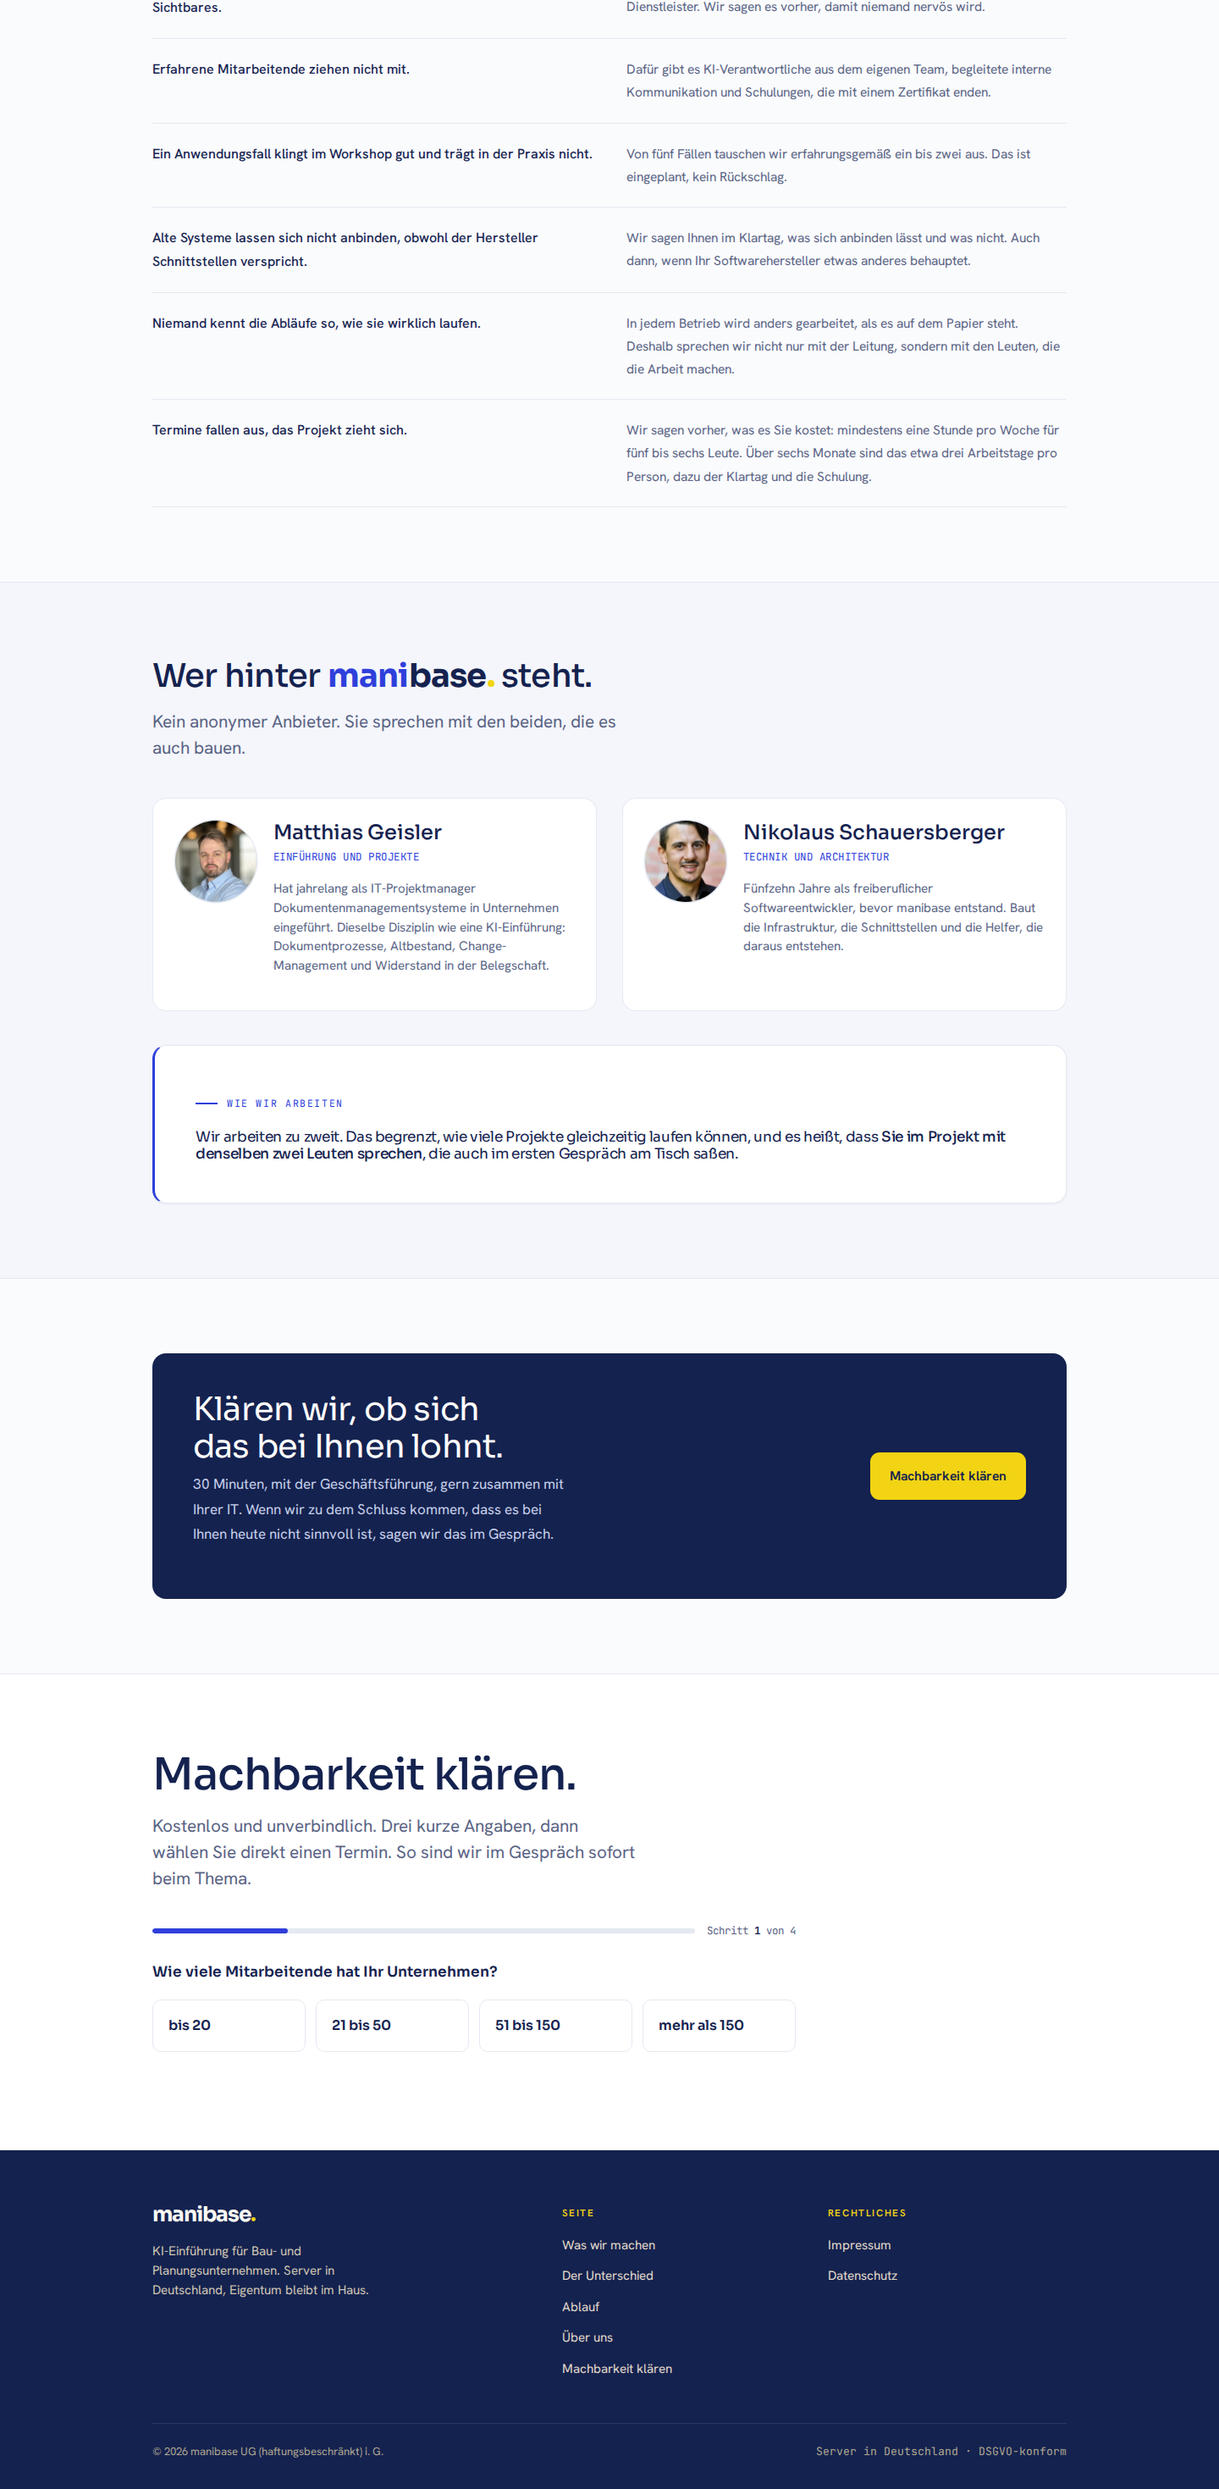
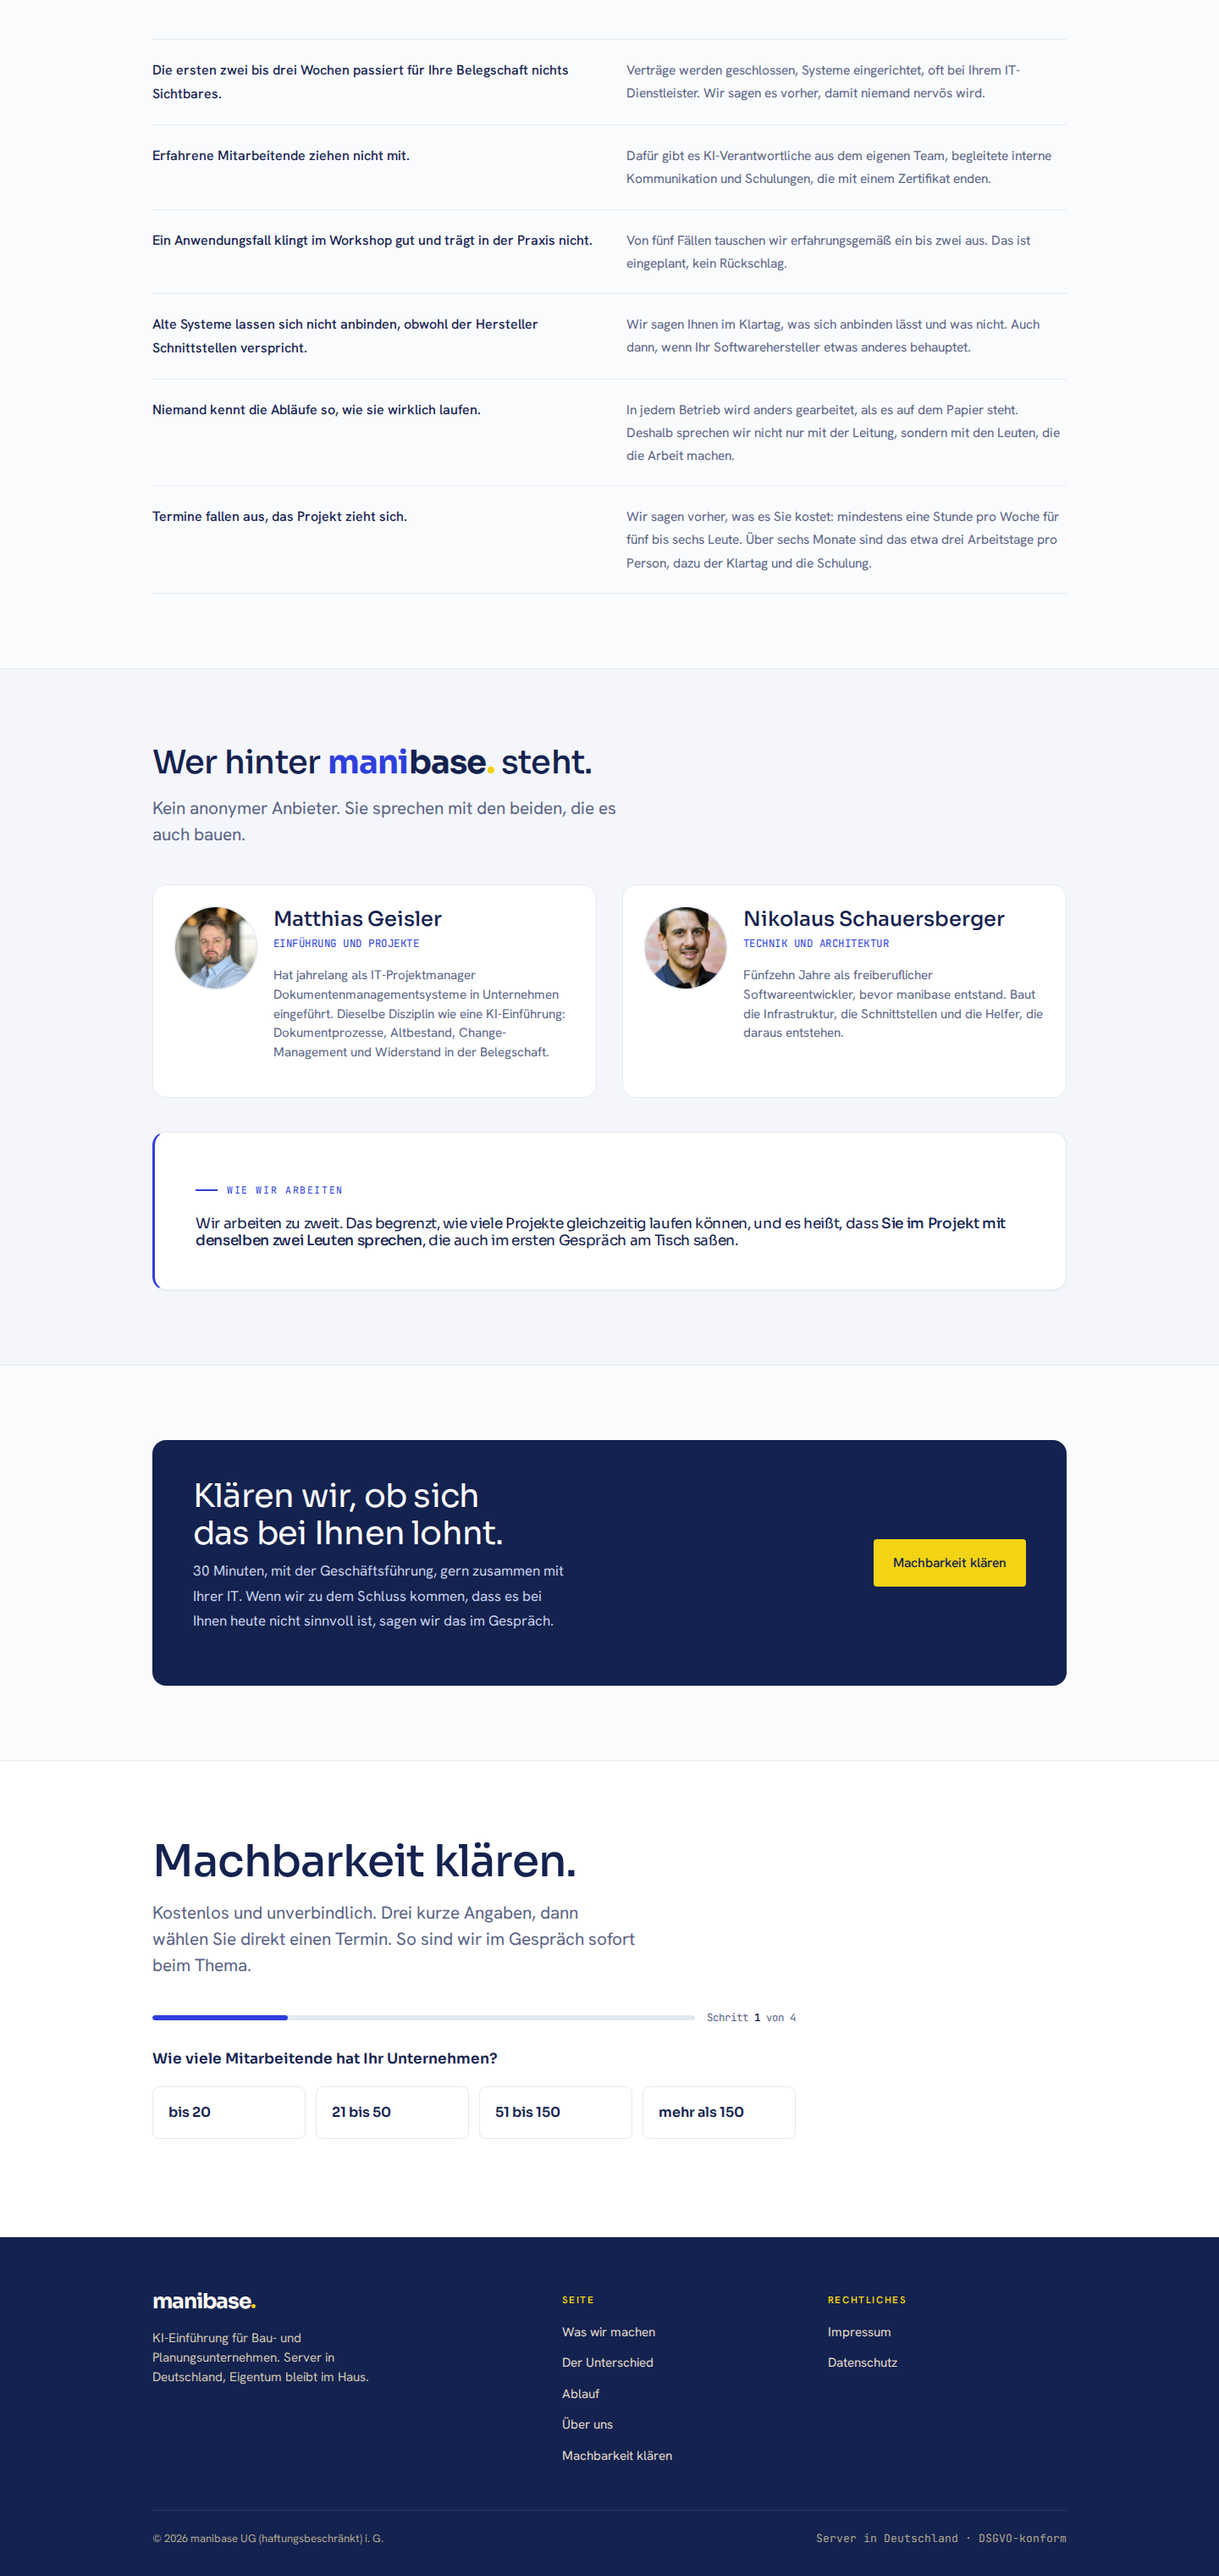
Redesign: eckige Buttons, CTA-Anker bei 50 und 75 Prozent, kuehle Leinwand bestaetigt

diff --git a/site/styles/site.css b/site/styles/site.css
@@ -663,7 +663,7 @@ body{line-height:1.75;}
 
 /* ---------- Kapazität ---------- */
 .capacity{display:flex;flex-wrap:wrap;align-items:center;gap:14px 20px;
-  background:var(--color-surface);border:1px solid var(--color-border);border-left:3px solid var(--color-accent);
+  background:var(--color-surface);border:1px solid var(--color-border);border-left:3px solid var(--color-primary);
   border-radius:var(--radius-lg);padding:clamp(18px,2.4vw,24px) clamp(20px,2.6vw,28px);
   margin-top:clamp(26px,4vw,40px);}
 .capacity p{margin:0;color:var(--color-text-secondary);max-width:58ch;font-size:.98rem;}
@@ -680,3 +680,22 @@ body{line-height:1.75;}
 
 /* Kein Gelb als große Fläche mehr */
 .spotlight-cta{background:var(--color-surface);border:1px solid var(--color-border);border-top:3px solid var(--color-accent);}
+
+/* ---------- Buttons eckiger (Capmo-Richtung) ---------- */
+.btn{border-radius:4px;font-weight:500;}
+.field input,.newsletter__form input[type=email]{border-radius:6px;}
+.qcard{border-radius:8px;}
+.stage-price{border-radius:4px;}
+
+/* ---------- CTA-Anker in der Seitenmitte und im unteren Drittel ---------- */
+.ctamid{
+  display:flex;flex-wrap:wrap;align-items:center;justify-content:space-between;
+  gap:18px clamp(24px,4vw,44px);
+  margin-top:clamp(30px,4vw,46px);
+  padding-top:clamp(26px,3.5vw,36px);
+  border-top:1px solid var(--color-border);
+}
+.ctamid p{margin:0;color:var(--color-text-secondary);max-width:52ch;font-size:1rem;}
+.ctamid b{color:var(--color-ink);font-weight:500;}
+.ctamid .btn{flex:none;}
+@media (max-width:560px){.ctamid .btn{width:100%;}}

diff --git a/site/index.html b/site/index.html
@@ -165,6 +165,12 @@
       <div class="capacity reveal">
         <p><b>Wir treten nicht gegen Microsoft an.</b> Copilot bleibt, wo es stark ist: im Dokument, in der Mail, in der Sitzung. Von 150 Mitarbeitenden brauchen das vielleicht 20 wirklich. Die anderen 130 versorgen wir günstiger und erreichen dabei auch die, die den ganzen Tag nicht am Rechner sitzen.</p>
       </div>
+
+      <!-- CTA 2 von 4 · Seitenmitte, nach der Methode -->
+      <div class="ctamid reveal">
+        <p><b>Sie wissen nicht, welche der beiden Spalten Ihr Haus beschreibt?</b> Genau das klären wir im ersten Gespräch, bevor irgendjemand etwas kauft.</p>
+        <a class="btn" href="#termin">Machbarkeit klären</a>
+      </div>
     </div>
   </section>
 
@@ -233,6 +239,12 @@
 
       <div class="capacity reveal">
         <p><b>Nach dem Klartag können Sie mit dieser Roadmap gerne zur Konkurrenz gehen.</b> Das ist völlig in Ordnung. Oder wir machen daraus ein gemeinsames Projekt.</p>
+      </div>
+
+      <!-- CTA 3 von 4 · unteres Drittel, nach der Angebotserklärung -->
+      <div class="ctamid reveal">
+        <p><b>Der erste Schritt kostet Sie nichts außer 30 Minuten.</b> Erst danach entscheiden Sie, ob ein Klartag Sinn ergibt.</p>
+        <a class="btn" href="#termin">Machbarkeit klären</a>
       </div>
     </div>
   </section>

diff --git a/docs/redesign/03-bauauftrag.md b/docs/redesign/03-bauauftrag.md
@@ -277,10 +277,32 @@ vor. Die Klassen bleiben im Stylesheet, weil andere Seiten sie nutzen.
 **Screenshots** liegen in diesem Ordner: `v2-kuehl-1..3.png` (kühl, 1440 px),
 `v2-warm-1..3.png` (warm, zum Vergleich), `v2-mobil-1..2.png` (390 px).
 
-### Offen, blockiert die Unterseiten
+### Entschieden am 4.8.2026
 
-- [ ] **Kühle oder warme Leinwand.** Umschalten kostet ein Attribut am `<html>`-Element.
-      Standard ist derzeit kühl.
+- **Kühle Leinwand.** Begründung des Kunden: nehmen, was der Wettbewerb macht und sich
+  bewährt hat. Deckt sich mit der Messung: Capmo `#f4f6f6`, Cosuno `#f1f5fa`,
+  Plancraft `#f8f8f8`. Die warme Variante bleibt über `data-canvas="warm"` erhalten,
+  wird aber nicht mehr gepflegt.
+- **Buttons eckig statt rund** (Capmo-Richtung): `border-radius:4px`. Eingabefelder 6px,
+  Auswahlkarten 8px, Inhaltskarten 12–16px. Die Abstufung ist Absicht: je kleiner das
+  Element, desto kantiger.
+
+### CTA-Rhythmus: vier Anker über die Seitenlänge
+
+| Position | Ort auf der Seite | Umsetzung |
+|---|---|---|
+| **~10 %** | Hero | „Machbarkeit klären" plus sekundär „So läuft ein Klartag" |
+| **~50 %** | nach dem Vergleich *gewachsen gegen gebaut* | `.ctamid`, nach Hook und Re-Hook |
+| **~75 %** | nach den drei Stufen, also nach der Angebots- und Preiserklärung | `.ctamid` |
+| **100 %** | dunkles Band plus Buchungsmaske | `.ctaband` und `#termin` |
+
+**Dazwischen bewusst keine Knöpfe.** Wertband, Video, Rahmen, Bausteine, Argumente,
+Reibung und Gründer bleiben frei, damit der Leser die Argumentation am Stück lesen kann.
+
+**Bekannte Spannung:** Der Knopf im Kopfbereich ist sticky und damit immer sichtbar,
+was der Idee einer Pause widerspricht. Er bleibt trotzdem, weil 11 von 11 untersuchten
+Wettbewerbern einen führen und er die Haupt-Conversion-Fläche für wiederkehrende
+Besucher ist.
 
 ### Noch nicht gebaut
 
